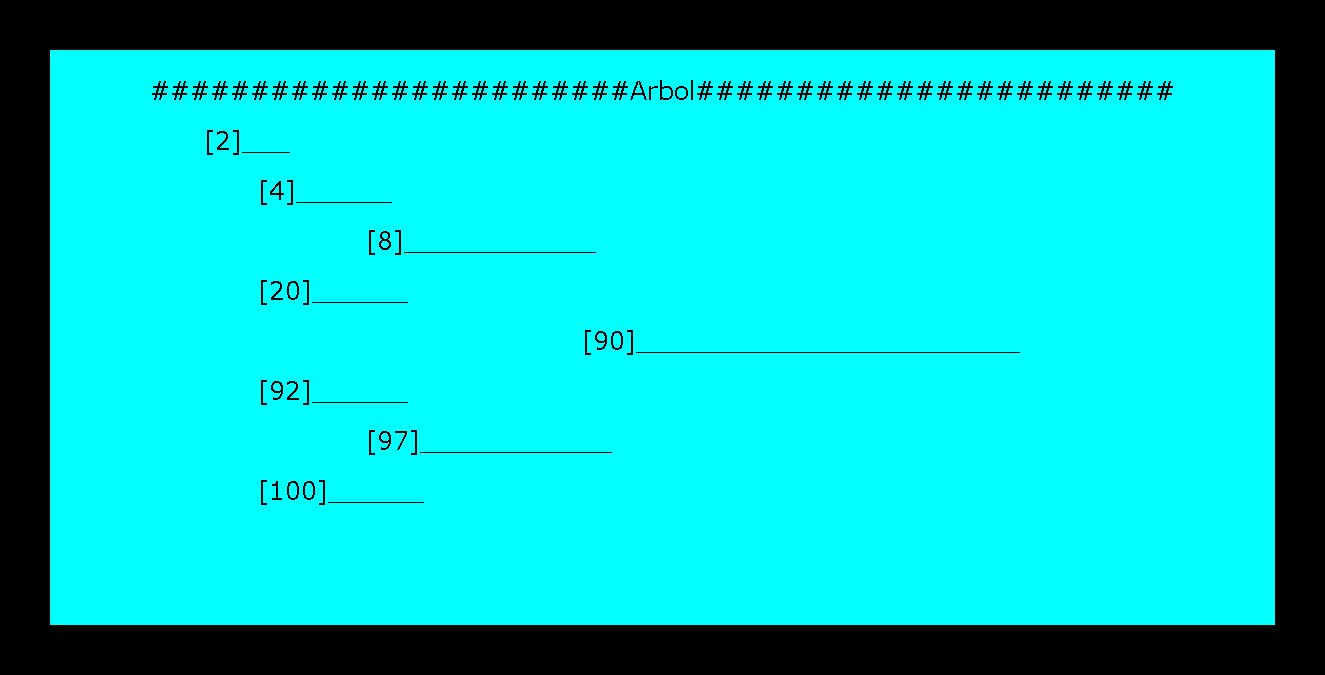
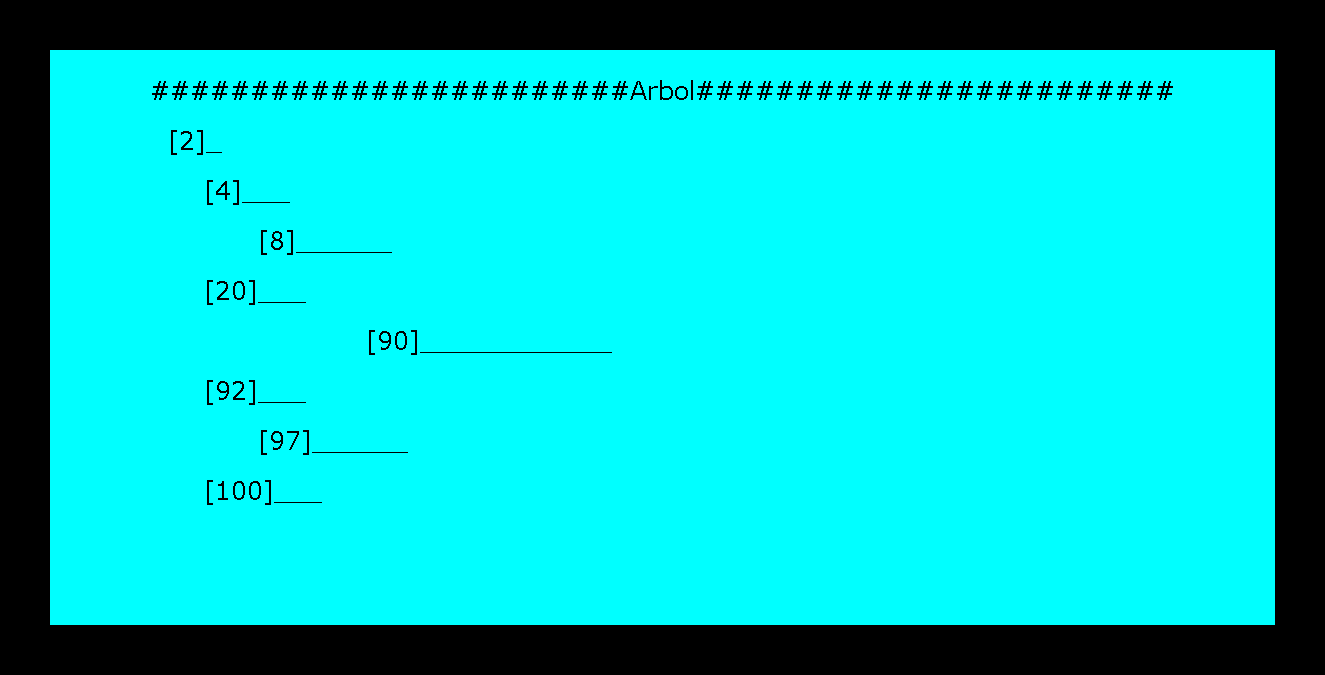
fue terminado l parte de imprimir un arbol en horde vertical

diff --git a/src/main/java/cunoc/Tree/Tree.java b/src/main/java/cunoc/Tree/Tree.java
@@ -9,23 +9,16 @@ public class Tree<T> implements Runnable {
     private NodeBinary<T> main = null;
     private int itemsCounter = 0;
 
-    public int getItemsCounter() {
-        return this.itemsCounter;
-    }
-
-    public T getMainData() {
-        return main.getData();
+    // Builder
+    public Tree(final NodeBinary<T> data) {
+        add(data);
     }
 
     public Tree() {
     }
 
-    public Tree(NodeBinary<T> data) {
-        add(data);
-    }
-
     // add node in tree
-    public void add(NodeBinary<T> data) {
+    public void add(final NodeBinary<T> data) {
         // if the mein null
         if (this.main == null) {
             this.main = data;
@@ -34,12 +27,11 @@ public class Tree<T> implements Runnable {
         }
         // sort the treee
         // new Thread(this).start();
-        this.main = sortTree(this.main);
-        // System.out.println("agrege :"+data.getValue());
+        this.main = balanceTree(this.main);
         this.itemsCounter++;
     }
 
-    private NodeBinary<T> addSort(NodeBinary<T> data, NodeBinary<T> branch) {
+    private NodeBinary<T> addSort(final NodeBinary<T> data, final NodeBinary<T> branch) {
         if (!(branch.getValue() == data.getValue())) {
             if (branch.getValue() < data.getValue()) {
                 if (branch.getSonR() == null) {
@@ -60,7 +52,7 @@ public class Tree<T> implements Runnable {
         return branch;
     }
 
-    private boolean search(NodeBinary<T> data, NodeBinary<T> branch) {
+    private boolean search(final NodeBinary<T> data, final NodeBinary<T> branch) {
         if (data != null && branch != null) {
             if (data.getValue() == branch.getValue()) {
                 return true;
@@ -74,7 +66,7 @@ public class Tree<T> implements Runnable {
         }
     }
 
-    private NodeBinary<T> lastLTree(NodeBinary<T> sort) {
+    private NodeBinary<T> lastLTree(final NodeBinary<T> sort) {
         if (sort.getSonL() != null) {
             sort.getSonL().setFather(sort);
             return lastLTree(sort.getSonL());
@@ -83,7 +75,7 @@ public class Tree<T> implements Runnable {
         }
     }
 
-    private NodeBinary<T> lastRTree(NodeBinary<T> sort) {
+    private NodeBinary<T> lastRTree(final NodeBinary<T> sort) {
         if (sort.getSonR() != null) {
             sort.getSonR().setFather(sort);
             return lastLTree(sort.getSonR());
@@ -95,11 +87,12 @@ public class Tree<T> implements Runnable {
     @Override
     public void run() {
         // automatically balance
-        this.main = this.sortTree(this.main);
+        this.main = this.balanceTree(this.main);
     }
 
-    private NodeBinary<T> sortTree(NodeBinary<T> sort) {
-        int level = levelNode(sort);
+    // the tree swings only with simple movements
+    private NodeBinary<T> balanceTree(NodeBinary<T> sort) {
+        final int level = levelNode(sort);
         if (level > 1) {
             int balance = levelNode(sort.getSonL()) - levelNode(sort.getSonR());
             do {
@@ -111,20 +104,21 @@ public class Tree<T> implements Runnable {
                 balance = levelNode(sort.getSonL()) - levelNode(sort.getSonR());
             } while (balance > 1 | balance < -1);
         }
+        //for subtrees
         if (sort.getSonL() != null) {
-            sort.setSonL(sortTree(sort.getSonL()));
+            sort.setSonL(balanceTree(sort.getSonL()));
         }
         if (sort.getSonR() != null) {
-            sort.setSonR(sortTree(sort.getSonR()));
+            sort.setSonR(balanceTree(sort.getSonR()));
         }
         return sort;
     }
 
     // simple rotation to the left
     private NodeBinary<T> rotateL(NodeBinary<T> rota) {
-        NodeBinary<T> add = new NodeBinary<T>(rota.getData(), rota.getValue());
+        final NodeBinary<T> add = new NodeBinary<T>(rota.getData(), rota.getValue());
         if (rota.getSonL() != null) {
-            NodeBinary<T> addSon = new NodeBinary<T>(rota.getSonL().getData(), rota.getSonL().getValue());
+            final NodeBinary<T> addSon = new NodeBinary<T>(rota.getSonL().getData(), rota.getSonL().getValue());
             addSon.setSonL(rota.getSonL().getSonL());
             addSon.setSonR(rota.getSonL().getSonR());
             add.setSonR(rota.getSonR());
@@ -135,9 +129,9 @@ public class Tree<T> implements Runnable {
 
     // simple rotation to the right
     private NodeBinary<T> rotateR(NodeBinary<T> rota) {
-        NodeBinary<T> add = new NodeBinary<T>(rota.getData(), rota.getValue());
+        final NodeBinary<T> add = new NodeBinary<T>(rota.getData(), rota.getValue());
         if (rota.getSonR() != null) {
-            NodeBinary<T> addSon = new NodeBinary<T>(rota.getSonR().getData(), rota.getSonR().getValue());
+            final NodeBinary<T> addSon = new NodeBinary<T>(rota.getSonR().getData(), rota.getSonR().getValue());
             addSon.setSonL(rota.getSonR().getSonL());
             addSon.setSonR(rota.getSonR().getSonR());
             add.setSonL(rota.getSonL());
@@ -147,7 +141,8 @@ public class Tree<T> implements Runnable {
         return rota;
     }
 
-    private int levelNode(NodeBinary<T> node) {
+    // node height
+    private int levelNode(final NodeBinary<T> node) {
         if (node == null) {
             return 0;
         } else {
@@ -155,13 +150,14 @@ public class Tree<T> implements Runnable {
         }
     }
 
-    private int maxNum(int one, int two) {
+    // compare two ints to return the larger
+    private int maxNum(final int one, final int two) {
         return (one > two) ? one : two;
     }
 
-    // array of tree pos orden
+    // array of tree in order
     public int[] inOrderArray() {
-        int[] ret = new int[this.itemsCounter];
+        final int[] ret = new int[this.itemsCounter];
         int counter = 0;
         NodeBinary<T> printNode = lastLTree(this.main);
         while (counter < this.itemsCounter) {
@@ -192,8 +188,8 @@ public class Tree<T> implements Runnable {
         return ret;
     }
 
-    private boolean searchArrayInt(int data, int[] array) {
-        for (int i : array) {
+    private boolean searchArrayInt(final int data, final int[] array) {
+        for (final int i : array) {
             if (i == data) {
                 return true;
             }
@@ -201,30 +197,94 @@ public class Tree<T> implements Runnable {
         return false;
     }
 
-    // print in console
-    public String printTree() {
-        String finalString = "";
-        int wide = this.wide;
-        int height = this.levelNode(this.main);
-        wide *= height;
-        wide /= 2;
-        finalString = printCharacter(wide, "#") + nameTree + printCharacter(wide, "#") + "\n";
+    // return a string from the tree
+    public String printTreeHorizontally() {
+        String finalString = basePrintTree();
         finalString += stringTree(wide, this.main) + "\n";
         return finalString;
     }
 
-    private String stringTree(int dividers, NodeBinary<T> node) {
+    public String printTreeVertical() {
+        String finalString = basePrintTree();
+        //finalString += stringTreeVertical(wide, this.main) + "\n";
+        int length = this.getHeight();
+        int center = this.wide*length;
+        for (int i = 0; i < length; i++) {
+            center/=2;
+            NodeBinary<T> arrayNode[] = arrayNodeLevel(i, this.main, new NodeBinary[(i * 2) + 1], 0);
+            for (int j = 0; j < arrayNode.length; j++) {
+                finalString += stringNode(center, arrayNode[j]); 
+            }
+            finalString += "\n";
+        }
+        return finalString;
+    }
+
+    private NodeBinary<T>[] arrayNodeLevel(int level, NodeBinary<T> node, NodeBinary<T>[] arrayNode, int poss) {
+        if (poss < arrayNode.length) {
+            if (level == 0) {
+                arrayNode[poss] = node;
+            } else if (level > 0) {
+                poss = (poss==1)?  poss+1:poss;
+                if (node == null) {
+                    arrayNode = arrayNodeLevel((level - 1), null, arrayNode, poss*1);
+                    arrayNode = arrayNodeLevel((level - 1), null, arrayNode, (poss*1)+1);
+                } else {
+                    arrayNode = arrayNodeLevel((level - 1), node.getSonL(), arrayNode, poss*1);
+                    arrayNode = arrayNodeLevel((level - 1), node.getSonR(), arrayNode, (poss*1)+1);
+                }
+            }
+        }
+        return arrayNode;
+    }
+
+    private NodeBinary<T>[] addArray(NodeBinary<T>[] arrayNode, NodeBinary<T> add) {
+        for (int i = 0; i < arrayNode.length; i++) {
+            if (arrayNode[i] == null) {
+                arrayNode[i] = add;
+            }
+        }
+        return arrayNode;
+    }
+
+    private String stringTreeVertical(final int dividers, final NodeBinary<T> node) {
+        String finalString = "";
+        if (node == null)
+            return finalString;
+        finalString += printCharacter(dividers, characterSpace) + stringNode(dividers, node) + "\n";
+        if (node.getSonL() != null)
+            finalString += stringNode(dividers, node.getSonL());
+        if (node.getSonL() != null)
+            finalString += stringNode(dividers, node.getSonR());
+
+        finalString += stringTreeVertical(dividers, node.getSonL());
+        finalString += stringTreeVertical(dividers, node.getSonR());
+        return finalString;
+    }
+
+    private String basePrintTree() {
+        String finalString = "";
+        int wide = this.wide;
+        wide *= this.getHeight();
+        wide /= 2;
+        finalString = printCharacter(wide, "#") + nameTree + printCharacter(wide, "#") + "\n";
+        return finalString;
+    }
+
+    // return the tree horizontally
+    private String stringTree(final int dividers, final NodeBinary<T> node) {
         String finalString = "";
         if (node != null) {
-            int son = dividers / 2;
+            final int son = dividers / 2;
             finalString += stringTree(son, node.getSonL());
-            finalString += printCharacter(dividers,characterSpace) + stringNode(dividers, node) + "\n";
+            finalString += printCharacter(dividers, characterSpace) + stringNode(dividers, node) + "\n";
             finalString += stringTree(son, node.getSonR());
         }
         return finalString;
     }
 
-    private String stringNode(int dividers, NodeBinary<T> node) {
+    // return string the node
+    private String stringNode(final int dividers, final NodeBinary<T> node) {
         String finalString = "";
         if (node != null) {
             finalString = printCharacter(dividers, characterSpace) + node.getData().toString()
@@ -236,7 +296,8 @@ public class Tree<T> implements Runnable {
         }
     }
 
-    private String printCharacter(int rerun, String character) {
+    // print character sequence
+    private String printCharacter(final int rerun, final String character) {
         String returnString = "";
         for (int i = 0; i < rerun; i++) {
             returnString += character;
@@ -244,4 +305,16 @@ public class Tree<T> implements Runnable {
         return returnString;
     }
 
+    // Get
+    public int getItemsCounter() {
+        return this.itemsCounter;
+    }
+
+    public T getMainData() {
+        return main.getData();
+    }
+
+    public int getHeight() {
+        return this.levelNode(this.main);
+    }
 }

diff --git a/src/test/java/cunoc/AppTest.java b/src/test/java/cunoc/AppTest.java
@@ -5,8 +5,6 @@ import static org.junit.Assert.assertTrue;
 import java.io.File;
 import java.io.IOException;
 
-import javax.swing.JFrame;
-
 import org.junit.Test;
 
 import cunoc.Converter.TextToImage;
@@ -49,10 +47,30 @@ public class AppTest {
         for (int i : pru) {
             testTree.add(new NodeBinary<num>(new num(i), i));
         }
-        // String testPrint = testTree.printTree();
-        // System.out.println(testPrint);
+        String testPrint = testTree.printTreeHorizontally();
+        System.out.println(testPrint);
         assertTrue(true);
     }
+    @Test
+    public void printTreeVertical() {
+        int[] pru = { 8, 4, 8, 2, 20, 100, 90, 92, 97 };
+        for (int i : pru) {
+            testTree.add(new NodeBinary<num>(new num(i), i));
+        }
+        String testPrint = testTree.printTreeVertical();
+        System.out.println(testPrint);
+        assertTrue(true);
+    }
+
+//    ########################Arbol########################
+//  [2]_
+//      [4]___
+//            [8]______
+//      [20]___
+//                        [90]____________
+//      [92]___
+//            [97]______
+//      [100]___
 
     @Test
     public void addInOrderTest() {
@@ -77,7 +95,7 @@ public class AppTest {
         for (int i : pru) {
             testTree.add(new NodeBinary<num>(new num(i), i));
         }
-        String testPrint = testTree.printTree();
+        String testPrint = testTree.printTreeHorizontally();
         File file = new File("image.png");
         if (file.exists()) {
             try {
